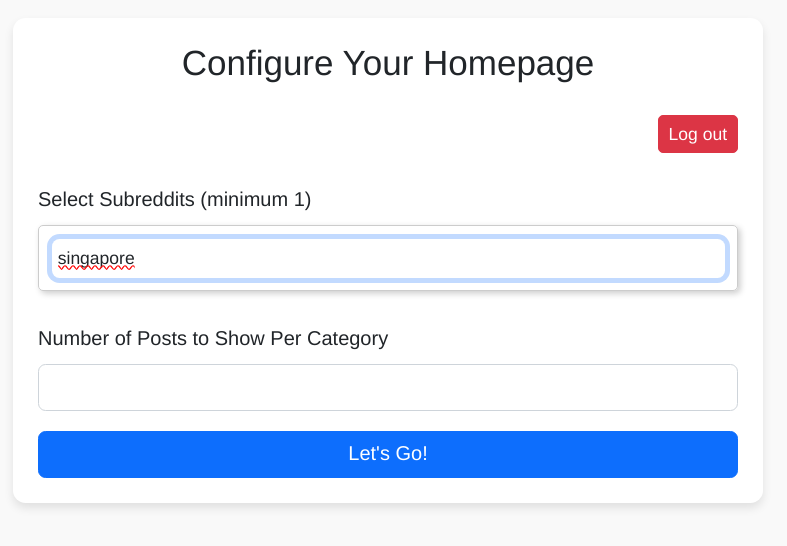
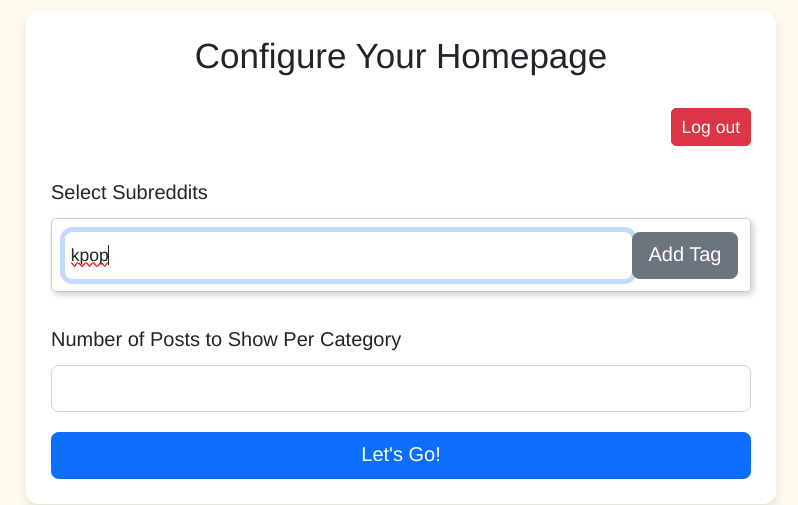
added some changes for mobile users

diff --git a/src/main/resources/templates/setup.html b/src/main/resources/templates/setup.html
@@ -88,7 +88,8 @@
                 <label th:for="*{rawSubreddits}" class="form-label">Select Subreddits</label>
                 <div class="tags-input">
                     <ul id="tags"></ul>
-                    <input type="text" id="input-tag" placeholder="Press Space Bar" class="form-control">
+                    <input type="text" id="input-tag" placeholder="Choose a subreddit" class="form-control">
+                    <button type="button" id="add-tag" class="btn btn-secondary">Add Tag</button>
                 </div>
                 <input type="hidden" th:field="*{rawSubreddits}" id="rawSubreddits">
             </div>
@@ -104,24 +105,21 @@
 
     <script>
         const tags = document.getElementById('tags');
-        const input = document.getElementById('input-tag');
+        const addTag = document.getElementById('add-tag');
         const rawSubredditsField = document.getElementById('rawSubreddits');
         const maxTags = 5;
 
-        input.addEventListener('keydown', function (event) {
-            if (event.key === ' ') {
-                event.preventDefault();
-                const tagContent = input.value.trim();
+        addTag.addEventListener('click', function () {
+            const tagContent = input.value.trim();
 
-                if (tagContent !== '' && tags.children.length < maxTags) {
-                    const tag = document.createElement('li');
-                    tag.innerHTML = `${tagContent} <button class="delete-button">&times;</button>`;
-                    tags.appendChild(tag);
-                    input.value = '';
-                    updateRawSubreddits();
-                } else if (tags.children.length >= maxTags) {
-                    alert(`You can only add up to ${maxTags} subreddits.`);
-                }
+            if (tagContent !== '' && tags.children.length < maxTags) {
+                const tag = document.createElement('li');
+                tag.innerHTML = `${tagContent} <button class="delete-button">&times;</button>`;
+                tags.appendChild(tag);
+                input.value = '';
+                updateRawSubreddits();
+            } else if (tags.children.length >= maxTags) {
+                alert(`You can only add up to ${maxTags} subreddits.`);
             }
         });
 

diff --git a/README.md b/README.md
@@ -23,10 +23,10 @@
 # How to use
 * Test out if the subreddits exist (if there's no error message it probably does)
 * During your first log in, you will be directed to the customization page:
-* **Select subreddits** by pressing **Space** after keying the name of the subreddit you want to add to your home page.
+* **Select subreddits** by pressing **Add Tag** after keying the name of the subreddit you want to add to your home page.
 
     ![](configGuides/configGuide1.png "Key in the name of the subreddit.")
-    ![](configGuides/configGuide2.png "Press Space bar to create a tag.")
+    ![](configGuides/configGuide2.png "Press Add Tag to create a tag.")
 * **Choose the number of posts** you would like to view per subreddit (There might be less posts that selected here if the subreddit is not active)
 
     ![](configGuides/configGuide3.png "Choose the number of posts you want to see.")
